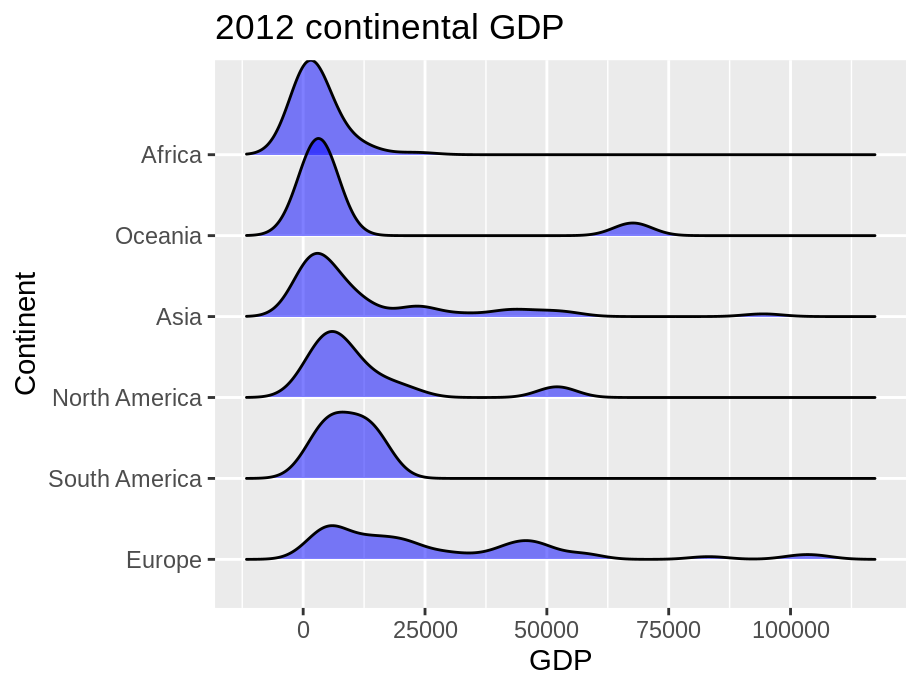
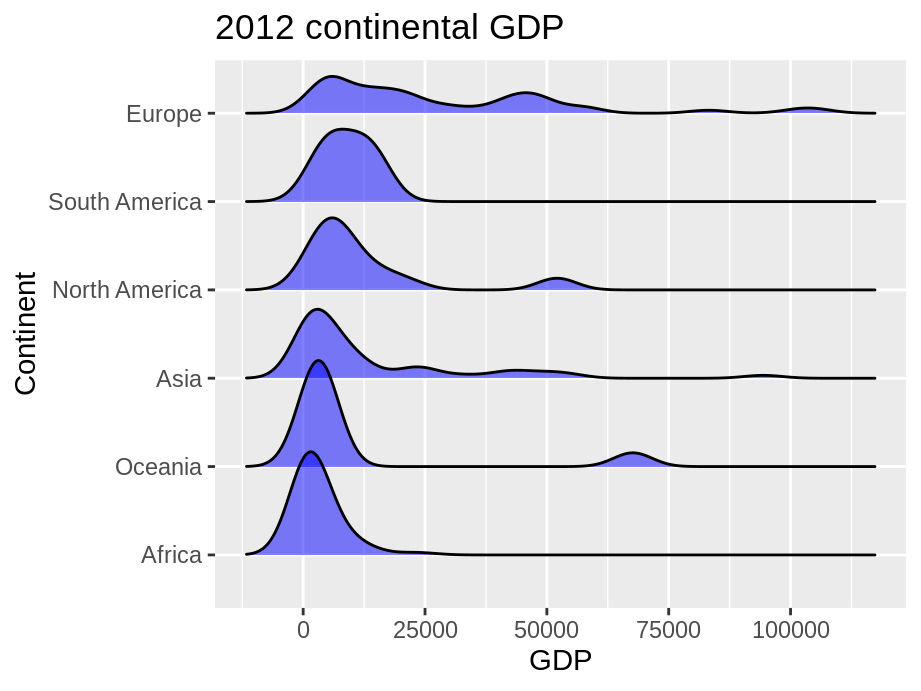
Deploying to gh-pages from @ jtr13/edav2@bf72bd50efd8fbfd41aa0b34af1423f743e7613f 🚀

diff --git a/unidimensional-continuous-variables.html b/unidimensional-continuous-variables.html
@@ -24,7 +24,7 @@
 <meta name="author" content="Joyce Robbins" />
 
 
-<meta name="date" content="2022-02-07" />
+<meta name="date" content="2022-02-09" />
 
   <meta name="viewport" content="width=device-width, initial-scale=1" />
   <meta name="apple-mobile-web-app-capable" content="yes" />
@@ -379,12 +379,12 @@ We see that the graph is not ideal with some gaps. There are two ways to modify 
 </div>
 <div id="create-better-visuals" class="section level3">
 <h3><span class="header-section-number">4.3.2</span> Create better visuals</h3>
-<div class="sourceCode" id="cb26"><pre class="sourceCode r"><code class="sourceCode r"><span id="cb26-1"><a href="unidimensional-continuous-variables.html#cb26-1"></a><span class="kw">ggplot</span>(world, <span class="kw">aes</span>(<span class="dt">x =</span> GDP, <span class="dt">y =</span> <span class="kw">reorder</span>(CONTINENT, <span class="op">-</span>GDP,median))) <span class="op">+</span></span>
+<div class="sourceCode" id="cb26"><pre class="sourceCode r"><code class="sourceCode r"><span id="cb26-1"><a href="unidimensional-continuous-variables.html#cb26-1"></a><span class="kw">ggplot</span>(world, <span class="kw">aes</span>(<span class="dt">x =</span> GDP, <span class="dt">y =</span> <span class="kw">reorder</span>(CONTINENT, GDP,median))) <span class="op">+</span></span>
 <span id="cb26-2"><a href="unidimensional-continuous-variables.html#cb26-2"></a><span class="st">  </span><span class="kw">geom_density_ridges</span>(<span class="dt">fill =</span> <span class="st">&quot;blue&quot;</span>,<span class="dt">alpha =</span> <span class="fl">.5</span>, <span class="dt">scale =</span> <span class="fl">1.2</span>) <span class="op">+</span></span>
 <span id="cb26-3"><a href="unidimensional-continuous-variables.html#cb26-3"></a><span class="st">  </span><span class="kw">ggtitle</span>(<span class="st">&quot;2012 continental GDP&quot;</span>) <span class="op">+</span></span>
 <span id="cb26-4"><a href="unidimensional-continuous-variables.html#cb26-4"></a><span class="st">  </span><span class="kw">ylab</span>(<span class="st">&quot;Continent&quot;</span>)</span></code></pre></div>
 <p><img src="continuous_var_files/figure-html/unnamed-chunk-14-1.png" width="460.8" style="display: block; margin: auto;" /></p>
-<p>In this example, we added parameter <code>scale</code> and <code>alpha</code> to control overlaps between ridges. Scale defines how much the peak of the lower curve touches the curve above and <code>alpha</code> controls transparency.</p>
+<p>In this example, we added parameter <code>scale</code> and <code>alpha</code> to control overlaps between ridges. Scale defines how much the peak of the lower curve touches the curve above and <code>alpha</code> controls transparency. Note that the curves are ordered from lowest median GDP on the bottom (Africa) to highest on the top (Europe).</p>
 </div>
 <div id="additional-resources-1" class="section level3">
 <h3><span class="header-section-number">4.3.3</span> Additional Resources</h3>

diff --git a/index.html b/index.html
@@ -24,7 +24,7 @@
 <meta name="author" content="Joyce Robbins" />
 
 
-<meta name="date" content="2022-02-07" />
+<meta name="date" content="2022-02-09" />
 
   <meta name="viewport" content="width=device-width, initial-scale=1" />
   <meta name="apple-mobile-web-app-capable" content="yes" />
@@ -207,7 +207,7 @@ code span.wa { color: #60a0b0; font-weight: bold; font-style: italic; } /* Warni
 <div id="header">
 <h1 class="title">edav.info, 2nd edition</h1>
 <p class="author"><em>Joyce Robbins</em></p>
-<p class="date"><em>2022-02-07</em></p>
+<p class="date"><em>2022-02-09</em></p>
 </div>
 <div id="welcome" class="section level1">
 <h1><span class="header-section-number">Chapter 1</span> Welcome!</h1>

diff --git a/404.html b/404.html
@@ -24,7 +24,7 @@
 <meta name="author" content="Joyce Robbins" />
 
 
-<meta name="date" content="2022-02-07" />
+<meta name="date" content="2022-02-09" />
 
   <meta name="viewport" content="width=device-width, initial-scale=1" />
   <meta name="apple-mobile-web-app-capable" content="yes" />

diff --git a/learning-ggplot2.html b/learning-ggplot2.html
@@ -24,7 +24,7 @@
 <meta name="author" content="Joyce Robbins" />
 
 
-<meta name="date" content="2022-02-07" />
+<meta name="date" content="2022-02-09" />
 
   <meta name="viewport" content="width=device-width, initial-scale=1" />
   <meta name="apple-mobile-web-app-capable" content="yes" />

diff --git a/learning-r.html b/learning-r.html
@@ -24,7 +24,7 @@
 <meta name="author" content="Joyce Robbins" />
 
 
-<meta name="date" content="2022-02-07" />
+<meta name="date" content="2022-02-09" />
 
   <meta name="viewport" content="width=device-width, initial-scale=1" />
   <meta name="apple-mobile-web-app-capable" content="yes" />

diff --git a/continuous_var.md b/continuous_var.md
@@ -245,7 +245,7 @@ ggplot(world, aes(x = GDP, y = reorder(CONTINENT, -GDP,median))) +
 
 
 ```r
-ggplot(world, aes(x = GDP, y = reorder(CONTINENT, -GDP,median))) +
+ggplot(world, aes(x = GDP, y = reorder(CONTINENT, GDP,median))) +
   geom_density_ridges(fill = "blue",alpha = .5, scale = 1.2) +
   ggtitle("2012 continental GDP") +
   ylab("Continent")
@@ -253,7 +253,7 @@ ggplot(world, aes(x = GDP, y = reorder(CONTINENT, -GDP,median))) +
 
 <img src="continuous_var_files/figure-html/unnamed-chunk-14-1.png" width="460.8" style="display: block; margin: auto;" />
 
-In this example, we added parameter `scale` and `alpha` to control overlaps between ridges. Scale defines how much the peak of the lower curve touches the curve above and `alpha` controls transparency. 
+In this example, we added parameter `scale` and `alpha` to control overlaps between ridges. Scale defines how much the peak of the lower curve touches the curve above and `alpha` controls transparency. Note that the curves are ordered from lowest median GDP on the bottom (Africa) to highest on the top (Europe).
 
 ### Additional Resources
 

diff --git a/index.md b/index.md
@@ -1,7 +1,7 @@
 ---
 title: "edav.info, 2nd edition"
 author: "Joyce Robbins"
-date: "2022-02-07"
+date: "2022-02-09"
 site: bookdown::bookdown_site
 github-repo: jtr13/edav2
 description: "Supplemental resources for GR5293 and GR5702"
